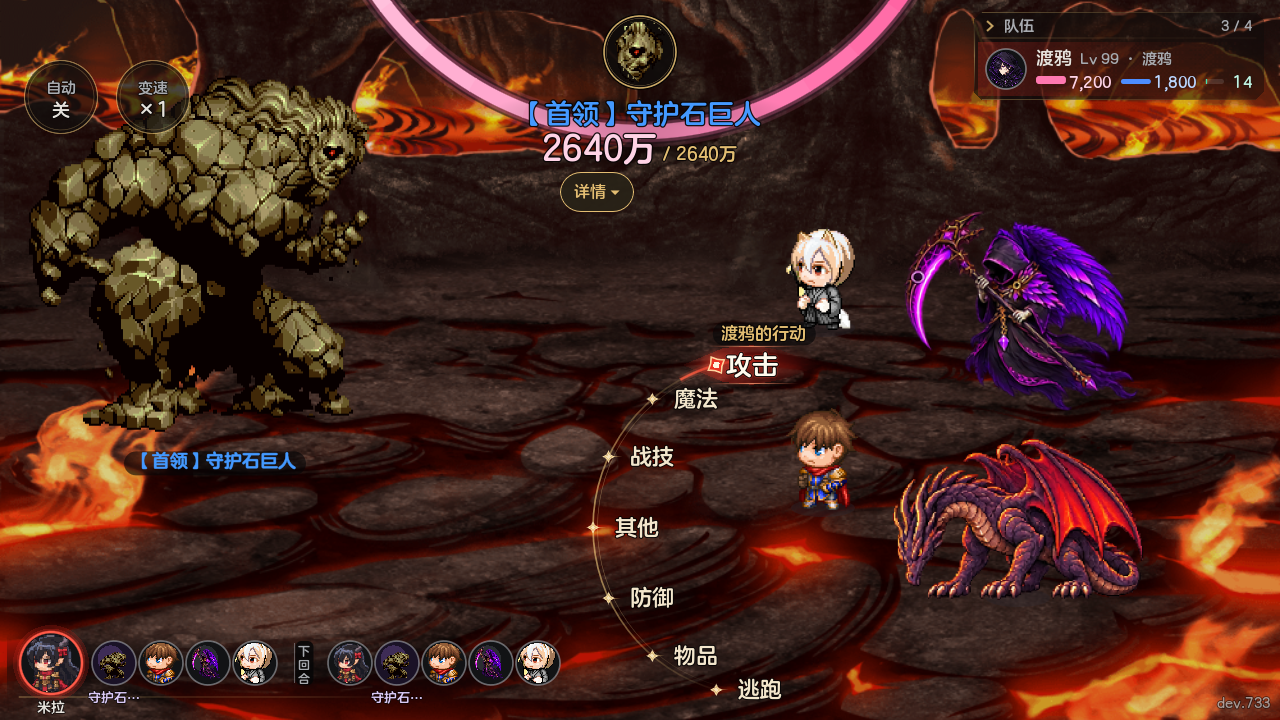
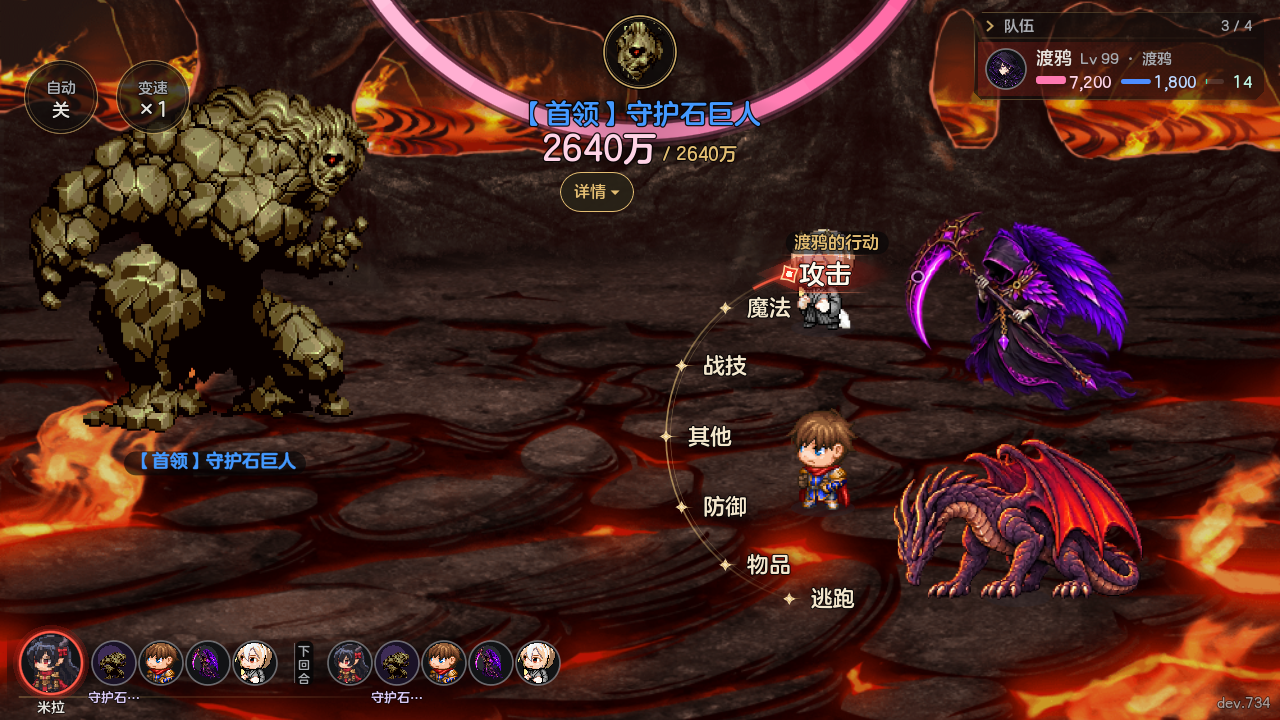
T208 R2：指令环贴大型变身身体旁边（压队友可以），两侧都不行才落下方中间；重截指令环两张
执行者: cc
核查: 待审查

diff --git a/00_项目管理/交付/luiluu_t208.md b/00_项目管理/交付/luiluu_t208.md
@@ -9,16 +9,16 @@
 
 - Kyo 11-18「战斗中指令栏会挡住大型精灵」→「指令栏按A」。`battle_scene.gd` 新增 `make_room_for_big`（在 `_place_near_actor` 新界面那支最后调）：行动者外观键含 `XBattleLayout.BIG_FORM_KEYS` 且 `BIG_FORM_H` 大于普通身高时，指令环（各项＋上方「某某的行动」，加 6px 放大余量）或战技／物品列表若压到其身体可见框（脚底居中、`width()`×`height()`）：① 外侧＝整块左挪到右边离身体 8px（压左下行动顺序条就抬到条上方），指令环另要求不压队友、首领信息区、队伍面板；② 不行就放画面下方中间（贴底、横向居中，压行动顺序条往右让，再压身体就贴身体左边抬到条上方）。普通大小角色一步不挪。回退：`XBattleScene.BIG_MAKE_ROOM = false`。没碰 `battle_layout.gd`。
 - 协调预筛返工：P1-1 列表往左挪后表头被首领信息区「详情」胶囊盖住——列表（外侧、下方中间两档）都要让开首领信息区：顶边压到它下沿以下 8px，底边再碰行动顺序条／画面底就减行数滚动（`XSkinBattleSkillList.fit_rows`，选中行保持可见）。P2-1 样张假数据——专项改用真实技能表（照指令环上技能类指令过滤，取技能最多那类，标题＝指令名），渡鸦满进阶学全真实技能（渡鸦那张标题是「魔法」，她的六招都在魔法类）；两张列表样张重截。P3（列表盖前排两个小队友）照协调不改。
-- 实测 4 人队（狗逍遥、里德、渡鸦神话、米拉黑龙）首领战、小怪战：两只大型变身的外侧都压前排队友，指令环都落到画面下方中间（x 573 起，避开行动顺序条）；只 2 人（狗逍遥＋米拉黑龙）时走外侧。列表走外侧（列表照原摆法本来就盖前排、首领信息区，只躲行动顺序条）。
+- R2（Kyo 11-18「指令环位置不行。我还是要在精灵身边。哪怕挡一下别的角色」）：指令环只躲自己的身体——贴身体左边（压首领信息区就往下挪、压行动顺序条就往上抬），左边不行再贴右边，两侧都不行才落下方中间；压前排队友不再算放不下。开关 `XBattleScene.RING_BESIDE`（false＝回 R1：压队友就落下方中间）。实测 4 人队（狗逍遥、里德、渡鸦神话、米拉黑龙）首领战、小怪战：两只大型变身的指令环都贴在身体左边（米拉盖里德，渡鸦盖狗逍遥、里德）；只 2 人时同样贴左边。列表保持 R1（Kyo 没意见）：贴身体左边、让开首领信息区、只躲行动顺序条。
 - T197 小A P2-2：`turn_marker.gd` 两个开关——`HOLD_WHILE_HIDING`：`set_target(null)` 后等 HIDE_DELAY 那段只许保持或变淡、不许淡入（逃跑成功关窗后不再闪出来，两次行动之间也不闪）；`HIDE_ON_MESSAGE`：战斗消息窗开着（逃跑失败两行等）当作挡住。回退：两个都设 false。
-- 新专项 `tests/xiyou_big_form_menu`（无头 102/102，窗口 106/106）：大型变身指令环、真实技能列表不压身体、不出屏、不压行动顺序条，列表不压首领信息区、减行数后选中行可见；外侧时不压队友、下方中间时贴底；狗逍遥、里德指令环与列表位置跟开关关逐像素相等；开关关时龙身确实被压（咬得住）；触屏跟角色摆法同样不压；宝石菜单开淡出／关淡入照旧；P2-2 等淡出时峰值 ≤0.01、开关关会闪（>0.05，咬得住）；消息窗开着挡住、关掉回来。
-- 玩家可见：米拉黑龙、渡鸦神话行动时，指令菜单和技能列表不再盖住它们的身体（挪到旁边或画面下方中间）；逃跑时角色头顶的红宝石不再闪一下。
+- 新专项 `tests/xiyou_big_form_menu`（无头 110/110，窗口 114/114）：大型变身指令环、真实技能列表不压身体、不出屏、不压行动顺序条，列表不压首领信息区、减行数后选中行可见；指令环贴身体左边或右边、不压首领信息区，RING_BESIDE 关时落下方中间（咬得住）；狗逍遥、里德指令环与列表位置跟开关关逐像素相等；开关关时龙身确实被压（咬得住）；触屏跟角色摆法同样不压；宝石菜单开淡出／关淡入照旧；P2-2 等淡出时峰值 ≤0.01、开关关会闪（>0.05，咬得住）；消息窗开着挡住、关掉回来。
+- 玩家可见：米拉黑龙、渡鸦神话行动时，指令菜单和技能列表改到它们身体旁边，不再盖住它们；逃跑时角色头顶的红宝石不再闪一下。
 
 ## 交接板
 
-- 下一步：（列表两张已按预筛 P1-1、P2-1 重截）协调把附图两张（`luiluu_t208附图/T208_首领战_米拉黑龙行动_指令环.png`、`…渡鸦神话行动_指令环.png`，1280×720 原尺寸）给 Kyo 审样；另两张战技列表展开图供参考。
+- 下一步：指令环两张已按 Kyo R2「要在精灵身边」重截（`luiluu_t208附图/T208_首领战_米拉黑龙行动_指令环.png`、`…渡鸦神话行动_指令环.png`，1280×720 原尺寸，4 人满队首领战），协调给 Kyo 审样；列表两张是 R1 预筛后的版本。
 - 用户试玩说明：天启篇米拉黑龙／渡鸦神话变身后轮到它行动，看指令环是不是不再压身体。
-- 需要用户决定：无（4 人满队时两只大型变身的指令环都落到下方中间，是 Kyo 选 A 时说的兜底；若觉得应该优先别的位置再提）。
+- 需要用户决定：无。
 
 ## 待交叉核查附注
 
@@ -43,3 +43,4 @@
 
 - e09b7cffc T208 代码与专项
 - （本次）预筛 P1-1 列表让开首领信息区＋减行数、P2-1 真实技能样张重截
+- （本次）R2 指令环贴精灵身边（RING_BESIDE），重截指令环两张
